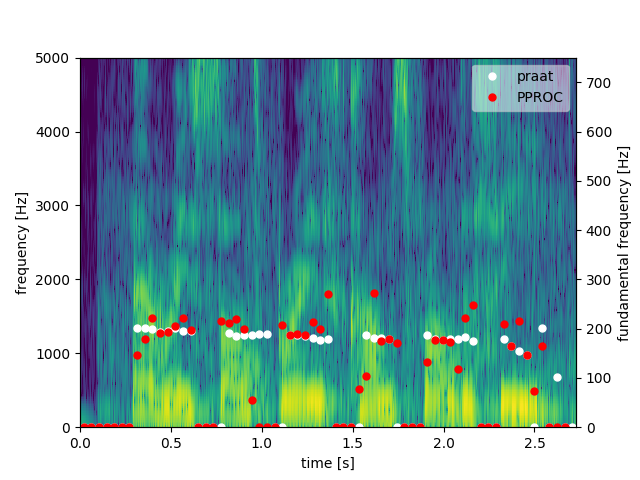
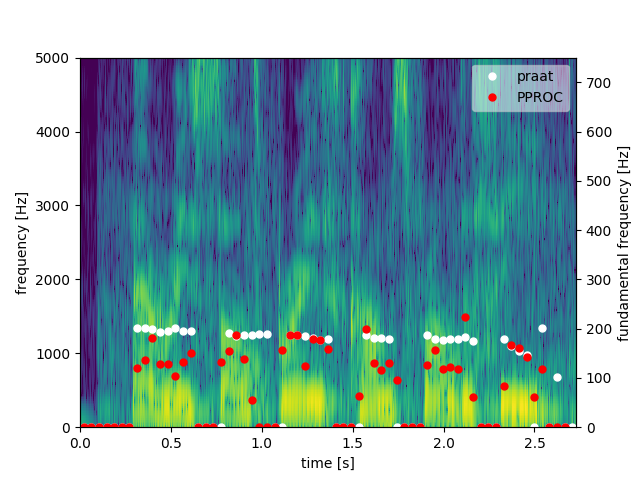
minor optimizations in peak_rundown accuracy

diff --git a/pproc.py b/pproc.py
@@ -60,12 +60,12 @@ def simple_peaks_helper(sound):
     # NOTE: Changed to xxx_equal to get rid of errors in unit test
     m1 = signal.argrelextrema(sound, np.greater_equal)
     m4 = signal.argrelextrema(sound, np.less_equal)
-    '''
+    
     if(len(m1) > 1):
         m1 = m1[2:len(m1)]
     if(len(m4) > 1):
         m4 = m4[2:len(m4)]
-    '''
+    
     return [m1, m4]
 
 def peak_valley_helper(m1, m4):
@@ -189,12 +189,12 @@ def peak_rundown(m, t, fs=12000):
         start = len(m)
     lastPeak = start
     Pav = 0#4/1000
-    beta = ((4/1000)/.695)
+    beta = ((16/1000)/.695)
     #print(start)
     #print(len(m))
     #print(np.array(np.nonzero(m)).flatten())
     # Start blanking
-    tau = .4*(4/1000)
+    tau = .4*(16/1000)
     for i in range(start, len(m)):
         if tau <= 0:
             # Start exponential decay, if peak exceeds exponential decay update period and restart blanking
